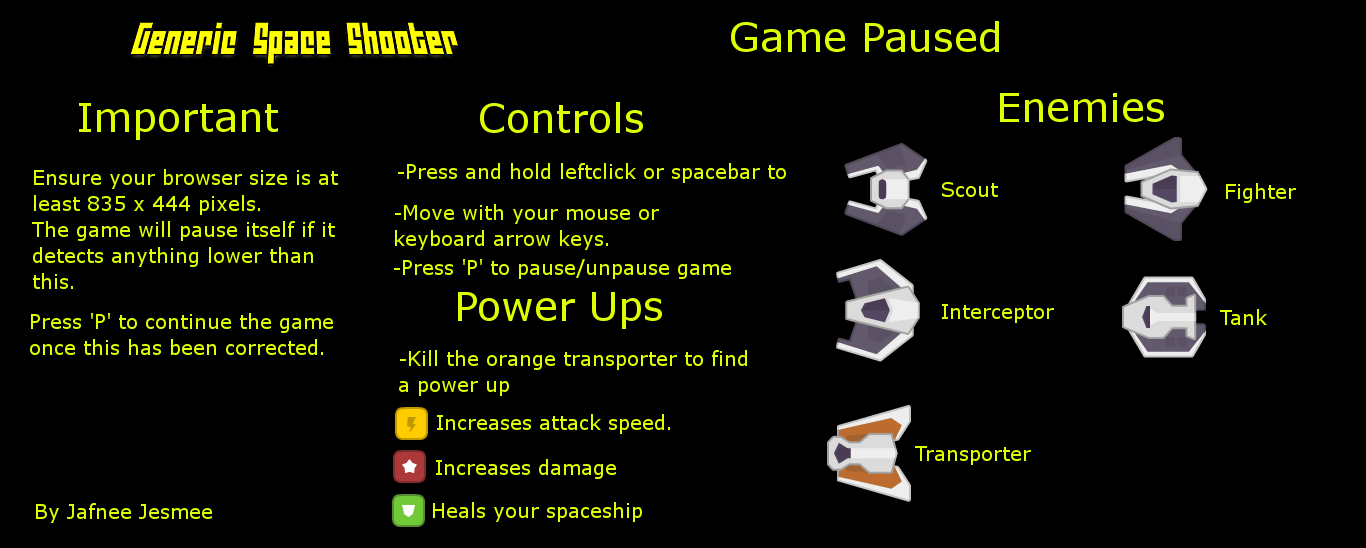
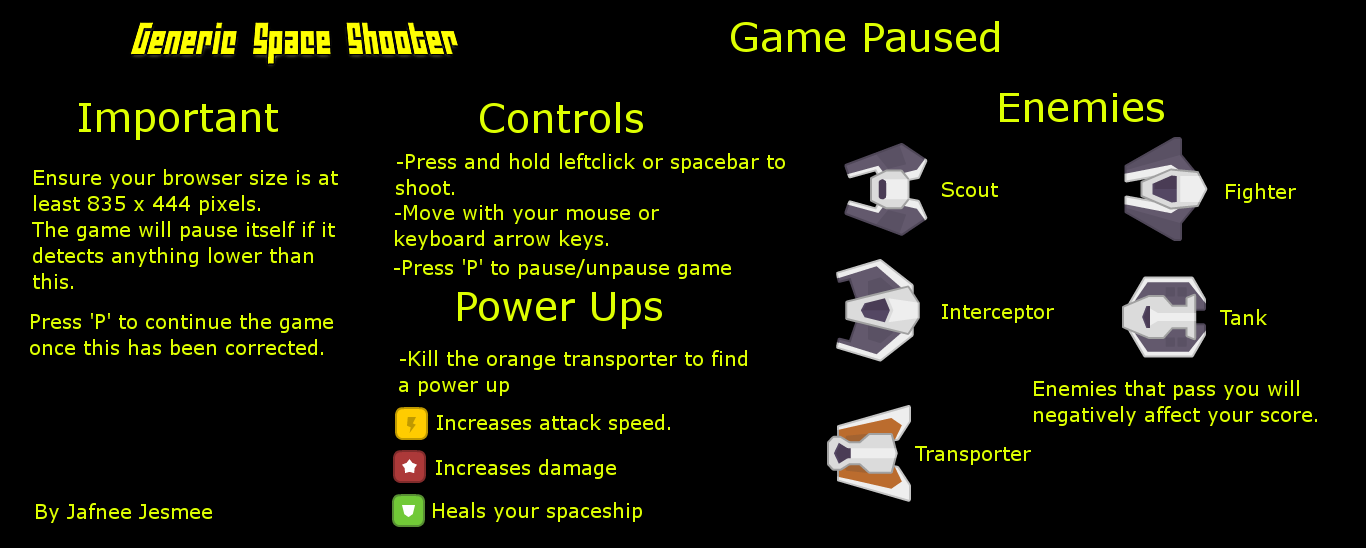
Fixed pause/unpause issues. Added error messages for browsers that dont support canvas. Added error messages for browsers that dont support requestAnimationFrame.

Changed region(s): [[0.2767, 0.2792, 0.5842, 0.3723], [0.7379, 0.6825, 0.9839, 0.7755]]

diff --git a/js/controller/action.js b/js/controller/action.js
@@ -87,11 +87,17 @@ function (Game, Canvas, Character, Images, InPlay, GameLogic, Sounds, LSM) {
 		mouseX = Game.mouse.pos.x;
 		mouseY = Game.mouse.pos.y;
 		if (mouseX >= part1 * 1.2 && mouseX <= part1 * 1.2 + part1 * 0.75 && mouseY >= part2 && mouseY <= part2 + part2 * 0.7) {
+			if (!Game.muteSFX) {
+				Sounds.select.play();
+			}
 			Action.resetVariables();
 			Game.screen = "game";
 			GameLogic.level.start();
 		}
 		if (mouseX >= part1 * 2.1 && mouseX <= part1 * 2.1 + part1 * 0.75 && mouseY >= part2 && mouseY <= part2 + part2 * 0.7) {
+			if (!Game.muteSFX) {
+				Sounds.select.play();
+			}
 			Game.screen = "main_menu";
 		}
 	};
@@ -103,6 +109,9 @@ function (Game, Canvas, Character, Images, InPlay, GameLogic, Sounds, LSM) {
 		mouseX = Game.mouse.pos.x;
 		mouseY = Game.mouse.pos.y;
 		if (mouseX >= part1 * 1.2 && mouseX <= part1 * 1.2 + part1 * 0.75 && mouseY >= part2 && mouseY <= part2 + part2 * 0.7) {
+			if (!Game.muteSFX) {
+				Sounds.select.play();
+			}
 			if (Game.muteMusic === false) {
 				Game.muteMusic = true;
 				LSM.set("music", "false");
@@ -118,6 +127,9 @@ function (Game, Canvas, Character, Images, InPlay, GameLogic, Sounds, LSM) {
 			}
 		}
 		if (mouseX >= part1 * 2.1 && mouseX <= part1 * 2.1 + part1 * 0.75 && mouseY >= part2 && mouseY <= part2 + part2 * 0.7) {
+			if (!Game.muteSFX) {
+				Sounds.select.play();
+			}
 			if (Game.muteSFX === false) {
 				Game.muteSFX = true;
 				LSM.set("sfx", "false");
@@ -127,6 +139,9 @@ function (Game, Canvas, Character, Images, InPlay, GameLogic, Sounds, LSM) {
 			}
 		}
 		if (mouseX >= part1 * 2.1 && mouseX <= part1 * 2.1 + part1 * 0.75 && mouseY >= part2 * 2 && mouseY <= part2 * 2 + part2 * 0.7) {
+			if (!Game.muteSFX) {
+				Sounds.select.play();
+			}
 			Game.screen = "main_menu";
 		}
 	};
@@ -138,9 +153,15 @@ function (Game, Canvas, Character, Images, InPlay, GameLogic, Sounds, LSM) {
 		mouseX = Game.mouse.pos.x;
 		mouseY = Game.mouse.pos.y;
 		if (mouseX >= part1 * 2.1 && mouseX <= part1 * 2.1 + part1 * 0.75 && mouseY >= part2 && mouseY <= part2 + part2 * 0.7) {
+			if (!Game.muteSFX) {
+				Sounds.select.play();
+			}
 			Game.screen = "main_menu";
 		}
 		if (mouseX >= part1 * 2.1 && mouseX <= part1 * 2.1 + part1 * 0.75 && mouseY >= part2 * 2 && mouseY <= part2 * 2 + part2 * 0.7) {
+			if (!Game.muteSFX) {
+				Sounds.select.play();
+			}
 			GameLogic.resetStats();
 		}
 	};
@@ -152,17 +173,29 @@ function (Game, Canvas, Character, Images, InPlay, GameLogic, Sounds, LSM) {
 		mouseX = Game.mouse.pos.x;
 		mouseY = Game.mouse.pos.y;
 		if (mouseX >= part1 * 1.2 && mouseX <= part1 * 1.2 + part1 * 0.75 && mouseY >= part2 && mouseY <= part2 + part2 * 0.7) {
+			if (!Game.muteSFX) {
+				Sounds.select.play();
+			}
 			Game.screen = "game";
 			Action.resetVariables();
 			GameLogic.level.start();
 		}
 		if (mouseX >= part1 * 2.1 && mouseX <= part1 * 2.1 + part1 * 0.75 && mouseY >= part2 && mouseY <= part2 + part2 * 0.7) {
+			if (!Game.muteSFX) {
+				Sounds.select.play();
+			}
 			Game.screen = "options";
 		}
 		if (mouseX >= part1 * 1.2 && mouseX <= part1 * 1.2 + part1 * 0.75 && mouseY >= part2 * 2 && mouseY <= part2 * 2 + part2 * 0.7) {
+			if (!Game.muteSFX) {
+				Sounds.select.play();
+			}
 			Game.screen = "stats";
 		}
 		if (mouseX >= part1 * 2.1 && mouseX <= part1 * 2.1 + part1 * 0.75 && mouseY >= part2 * 2 && mouseY <= part2 * 2 + part2 * 0.7) {
+			if (!Game.muteSFX) {
+				Sounds.select.play();
+			}
 			Game.screen = "paused";
 			Game.paused = true;
 		}

diff --git a/js/controller/gameRunner.js b/js/controller/gameRunner.js
@@ -1,45 +1,58 @@
-define(["view/draw", "model/game", "controller/gameLogic", "controller/action", "model/canvas"], function (Draw, Game, GameLogic, Action, Canvas) {
+define(["view/draw", "model/game", "controller/gameLogic", "controller/action", "model/canvas", "model/sounds"], function (Draw, Game, GameLogic, Action, Canvas, Sounds) {
 	var gameLoop = function gameLoop() {
-		requestAnimationFrame(GameRunner.gameLoop);
-		GameRunner.changeTextSize();
-		GameRunner.draw();
-		Action.moveShip();
+		if (window.requestAnimationFrame == null) {
+			Canvas.context.font = "20px Verdana";
+			Canvas.context.fillText("Your browser does not support requestAnimationFrame",100,100);
+			Canvas.context.fillText("Please upgrade your browser",100,300);
+		} else {
+			requestAnimationFrame(GameRunner.gameLoop);
+			GameRunner.changeTextSize();
+			GameRunner.draw();
+			Action.moveShip();
+		}
 	};
 	
 	var pauseGame = function pauseGame() {
-		if (Game.pause) {
-			Game.pause = false;
-		} else {
-			Game.pause = true;
-		}
-		if (Game.pause) {
-			GameLogic.timer.stop();
-			if (Game.screen !== "paused") {
-				Game.lastScreen = Game.screen;
+		if (Game.levelStarted || Game.screen === "paused") {
+			if (!Game.muteSFX) {
+				Sounds.pause.play();
 			}
-			Game.screen = "paused";
-		} else {
-			GameLogic.timer.start();
-			Game.screen = Game.lastScreen;
+			if (Game.paused) {
+				Game.paused = false;
+			} else {
+				Game.paused = true;
+			}
+			if (Game.paused) {
+				GameLogic.timer.stop();
+				if (Game.screen !== "paused") {
+					Game.lastScreen = Game.screen;
+				}
+				Game.screen = "paused";
+			} else {
+				GameLogic.timer.start();
+				Game.screen = Game.lastScreen;
+			}
 		}
 	};
 	
 	var changeTextSize = function changeTextSize() {
 		var width = Canvas.canvasWidth;
 		var height = Canvas.canvasHeight;
+		if (width < 835 || height < 444) {
+			if (!Game.paused) {
+				GameRunner.pauseGame();
+			}
+			Game.screenTooSmall = true;				
+		} else {
+			Game.screenTooSmall = false;
+		}
 		if (!Game.screenTooSmall) {
 			if (width >= 1300 && height >= 500) {
 				Canvas.context.font = "40px Verdana";
-				Game.screenTooSmall = false;
 			} else if (width >= 1030 && height >= 429){
 				Canvas.context.font = "30px Verdana";
-				Game.screenTooSmall = false;
-			} else if (width < 835 || height < 444) {
-				GameRunner.pauseGame();
-				Game.screenTooSmall = true;				
 			} else {
 				Canvas.context.font = "20px Verdana";
-				Game.screenTooSmall = false;
 			}
 		}
 	};

diff --git a/js/controller/localStorageManager.js b/js/controller/localStorageManager.js
@@ -8,9 +8,6 @@ define(["model/game"], function (Game) {
 			if (localStorage.getItem("sfx") === null) {
 				localStorage.setItem("sfx", "true");
 			}
-			if (localStorage.getItem("help") === null) {
-				localStorage.setItem("help", "true");
-			}
 			if (localStorage.getItem("scout") === null) {
 				localStorage.setItem("scout", "0");
 			}
@@ -25,6 +22,9 @@ define(["model/game"], function (Game) {
 			}
 			if (localStorage.getItem("transport") === null) {
 				localStorage.setItem("transport", "0");
+			}
+			if (localStorage.getItem("highscore") === null) {
+				localStorage.setItem("highscore", "0");
 			}
 		}
 		else
@@ -43,21 +43,6 @@ define(["model/game"], function (Game) {
 			Game.muteSFX = false;
 		} else {
 			Game.muteSFX = true;
-		}
-		if (localStorage.getItem("help") === "true") {
-			Game.disableHelp = false;
-		} else {
-			Game.disableHelp = true;
-		}
-		if (localStorage.getItem("help") === "true") {
-			Game.disableHelp = false;
-		} else {
-			Game.disableHelp = true;
-		}
-		if (localStorage.getItem("help") === "true") {
-			Game.disableHelp = false;
-		} else {
-			Game.disableHelp = true;
 		}
 		Game.highscore = parseInt(localStorage.getItem("highscore"));
 		Game.scout = parseInt(localStorage.getItem("scout"));

diff --git a/index.html b/index.html
@@ -5,7 +5,7 @@
         <meta charset="UTF-8">
 		<link rel="shortcut icon" href="./images/logo/favicon.ico" />
 		<link rel="stylesheet" type="text/css" href="css/main.css" />
-		<script src="js/require.js" data-main="js/main"></script>
+		<script src="js/require.js?v1.0" data-main="js/main"></script>
     </head>
     <body>		
 		<header>
@@ -16,11 +16,12 @@
 				<a href="index.html">Game</a>
 				<a href="about.html">About</a>
 				</ul>
-			<nav>
+			</nav>
 		</header>
         <section id="gameSection">
-            <canvas id="gameCanvas" width="1000" height="500">
+            <canvas id="gameCanvas" width="1000" height="500">			
 			</canvas>         
+			<h1>Your browser does not support Canvas. Please upgrade your browser.</h1>
         </section>
     </body>
 </html>

diff --git a/js/model/sounds.js b/js/model/sounds.js
@@ -21,6 +21,14 @@ define(["howler"], function (Howler) {
 		urls:		["./sound/sfx/sfx_shieldDown.ogg"]
 	});
 	
+	var pause = new Howl({
+		urls:		["./sound/sfx/pause.wav"]
+	});
+	
+	var select = new Howl({
+		urls:		["./sound/sfx/select.wav"]
+	});
+	
 	var powerUp = new Howl({
 		urls:		["./sound/sfx/sfx_zap.ogg"]
 	});
@@ -29,6 +37,8 @@ define(["howler"], function (Howler) {
 		explosion:			explosion,
 		bgMusic:			bgMusic,
 		playerHit:			playerHit,
+		pause:				pause,
+		select:				select,
 		laser1:				laser1,
 		laser2:				laser2
 	};

diff --git a/js/controller/gameLogic.js b/js/controller/gameLogic.js
@@ -37,7 +37,7 @@ define(["model/game", "model/character", "model/inPlay", "model/canvas", "model/
 		get:			getTimer
 	};
 	
-	var startLevel = function startLevel() {
+	var startLevel = function startLevel() {		
 		setTimeout(function(){
 			Game.levelStarted = true;
 			GameLogic.timer.start();

diff --git a/js/model/game.js b/js/model/game.js
@@ -52,7 +52,7 @@ define(["model/canvas"], function (Canvas) {
 		getScreen:			getScreen,
 		//variables
 		stars:				stars = [],
-		noStars:			400,
+		noStars:			300,
 		screen:				"",
 		timer:				0,
 		level:				1,
